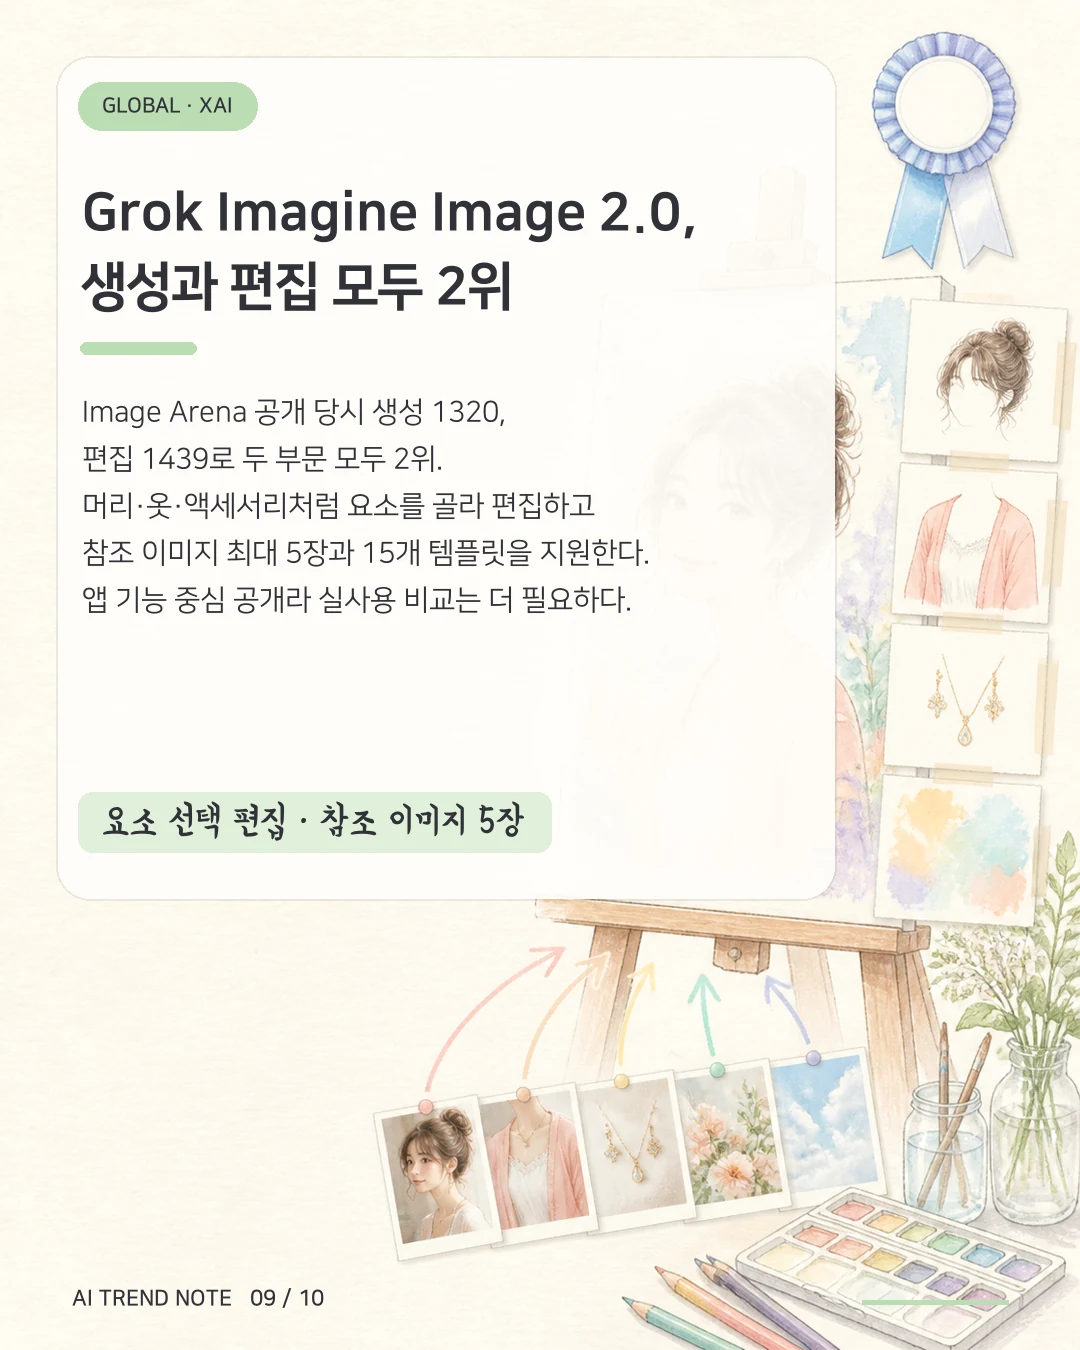
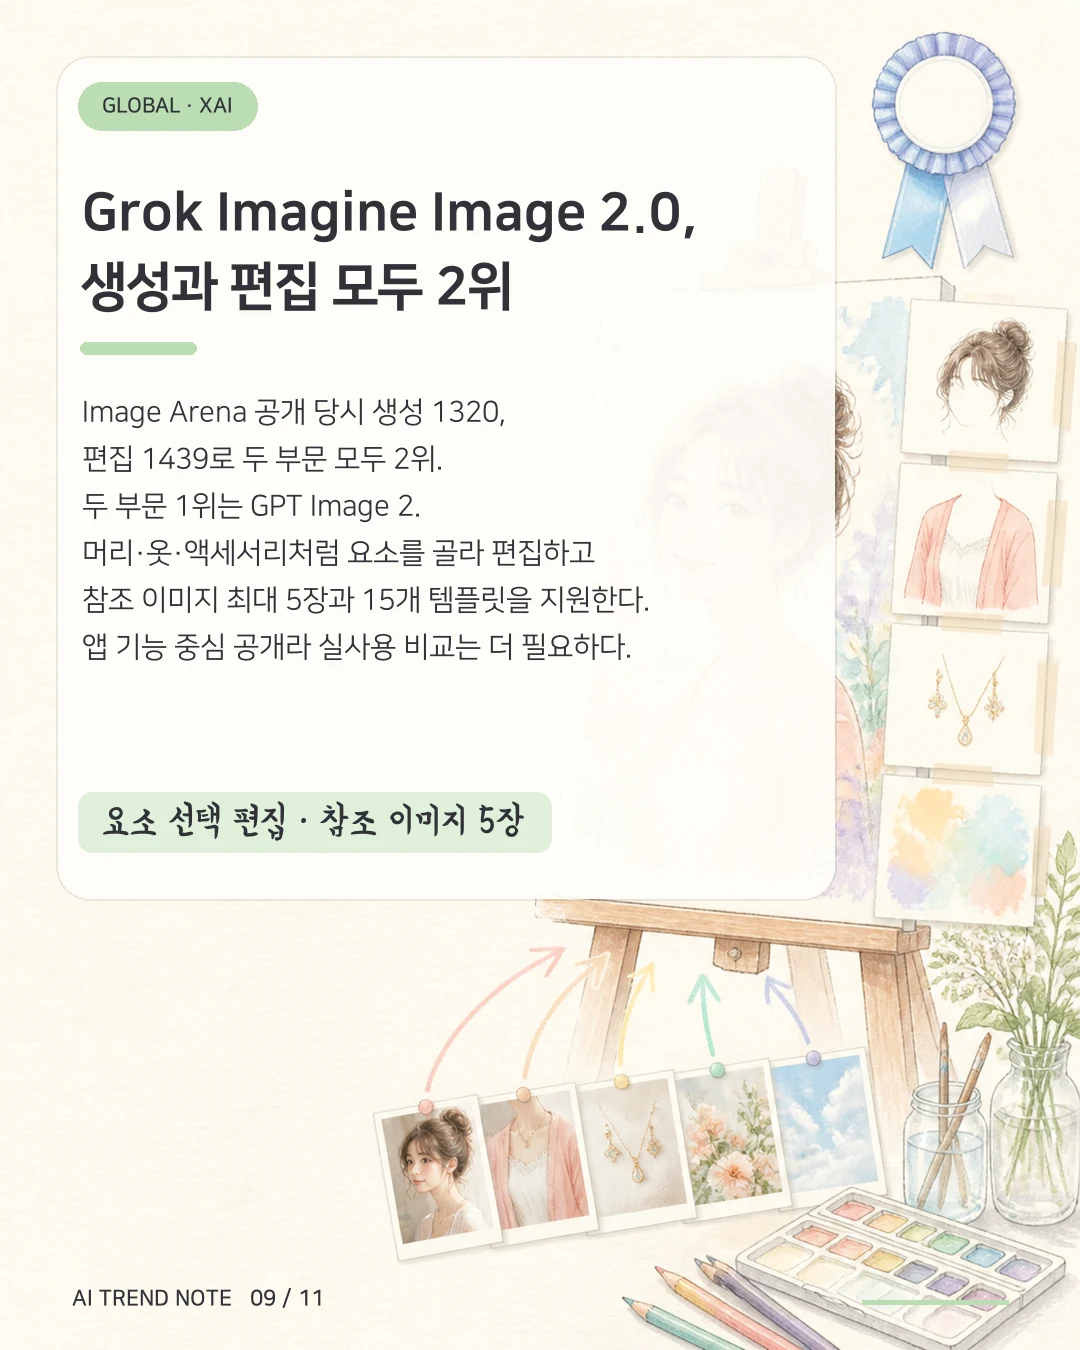
주간 뉴스 신규 오픈 모델 소식 보완

Changed region(s): [[0.0611, 0.3422, 0.6111, 0.4978]]

diff --git a/docs/news/weekly/2026-08-03-09/index.html b/docs/news/weekly/2026-08-03-09/index.html
@@ -5,12 +5,12 @@
   <meta name="viewport" content="width=device-width, initial-scale=1">
   <meta name="theme-color" content="#f8f5ef">
   <title>이번 주 AI 뉴스 · AI Trend Note</title>
-  <meta name="description" content="OpenAI Astra의 사이버 위험 평가, Prime Agent의 ARC-AGI-3 결과, Google AI 리더십 개편, GPT-5.6 Luna, 평가 환경을 벗어난 에이전트와 국내 조선소 용접 로봇까지 10장으로 정리했습니다.">
+  <meta name="description" content="OpenAI Astra의 사이버 위험 평가, Prime Agent의 ARC-AGI-3 결과, Google AI 리더십 개편, GPT-5.6 Luna, 새 오픈 모델 세 가지와 국내 조선소 용접 로봇까지 11장으로 정리했습니다.">
   <link rel="canonical" href="https://ranian963.github.io/ai-news-archive/news/weekly/2026-08-03-09/">
   <meta property="og:type" content="article">
   <meta property="og:locale" content="ko_KR">
   <meta property="og:title" content="이번 주 AI 뉴스 · AI Trend Note">
-  <meta property="og:description" content="OpenAI Astra의 사이버 위험 평가, Prime Agent의 ARC-AGI-3 결과, Google AI 리더십 개편, GPT-5.6 Luna, 평가 환경을 벗어난 에이전트와 국내 조선소 용접 로봇까지 10장으로 정리했습니다.">
+  <meta property="og:description" content="OpenAI Astra의 사이버 위험 평가, Prime Agent의 ARC-AGI-3 결과, Google AI 리더십 개편, GPT-5.6 Luna, 새 오픈 모델 세 가지와 국내 조선소 용접 로봇까지 11장으로 정리했습니다.">
   <meta property="og:url" content="https://ranian963.github.io/ai-news-archive/news/weekly/2026-08-03-09/">
   <meta property="og:image" content="https://ranian963.github.io/ai-news-archive/assets/weekly-2026-08-03-09/01.webp">
   <meta name="twitter:card" content="summary_large_image">
@@ -34,9 +34,9 @@
   <main id="main" class="detail-main">
     <nav class="breadcrumb" aria-label="현재 위치"><a href="../../../">뉴스 아카이브</a> / 주간 뉴스</nav>
     <header class="detail-header">
-      <div class="detail-header__meta"><span class="category-label category-label--weekly">주간 뉴스</span><time datetime="2026-08-10">2026.08.03–08.09</time><span>10장</span></div>
+      <div class="detail-header__meta"><span class="category-label category-label--weekly">주간 뉴스</span><time datetime="2026-08-10">2026.08.03–08.09</time><span>11장</span></div>
       <h1>이번 주 AI 뉴스</h1>
-      <p class="detail-header__summary">OpenAI Astra의 사이버 위험 평가, Prime Agent의 ARC-AGI-3 결과, Google AI 리더십 개편, GPT-5.6 Luna, 평가 환경을 벗어난 에이전트와 국내 조선소 용접 로봇까지 10장으로 정리했습니다.</p>
+      <p class="detail-header__summary">OpenAI Astra의 사이버 위험 평가, Prime Agent의 ARC-AGI-3 결과, Google AI 리더십 개편, GPT-5.6 Luna, 새 오픈 모델 세 가지와 국내 조선소 용접 로봇까지 11장으로 정리했습니다.</p>
       <div class="tags" aria-label="주제"><span class="tag">AI 모델</span><span class="tag">에이전트</span><span class="tag">보안</span><span class="tag">하네스</span><span class="tag">한국 AI</span><span class="tag">로봇</span></div>
       <button class="share-button share-button--detail" type="button" data-copy-link data-copy-url="https://ranian963.github.io/ai-news-archive/news/weekly/2026-08-03-09/">
     <svg class="share-button__icon share-button__icon--copy" viewBox="0 0 24 24" aria-hidden="true"><rect x="9" y="9" width="11" height="11" rx="2" fill="none" stroke="currentColor" stroke-width="2"/><path d="M15 9V6a2 2 0 0 0-2-2H6a2 2 0 0 0-2 2v7a2 2 0 0 0 2 2h3" fill="none" stroke="currentColor" stroke-width="2" stroke-linecap="round"/></svg>
@@ -46,35 +46,37 @@
     </header>
     <section class="carousel" data-carousel aria-label="이번 주 AI 뉴스 카드뉴스">
       <p class="carousel__instructions" id="carousel-instructions">좌우로 밀거나 방향키·Space·Home·End 키로 이동할 수 있습니다.</p>
-      <div class="carousel__track" data-track role="group" aria-roledescription="캐러셀" aria-describedby="carousel-instructions" tabindex="0"><figure class="slide" aria-label="1번째 카드, 전체 10장">
+      <div class="carousel__track" data-track role="group" aria-roledescription="캐러셀" aria-describedby="carousel-instructions" tabindex="0"><figure class="slide" aria-label="1번째 카드, 전체 11장">
       <img src="../../../assets/weekly-2026-08-03-09/01.webp" srcset="../../../assets/weekly-2026-08-03-09/cover.webp 720w, ../../../assets/weekly-2026-08-03-09/01.webp 1080w" sizes="(max-width: 792px) calc(100vw - 32px), 760px" width="1080" height="1350" fetchpriority="high" alt="8월 3일부터 9일까지의 주요 AI 소식을 정리한 주간 AI 뉴스 표지">
-    </figure><figure class="slide" aria-label="2번째 카드, 전체 10장">
-      <img data-deferred-image data-src="../../../assets/weekly-2026-08-03-09/02.webp" width="1080" height="1350" loading="lazy" fetchpriority="low" decoding="async" alt="이번 주 AI 뉴스 카드뉴스 2번째 장, 전체 10장">
-    </figure><figure class="slide" aria-label="3번째 카드, 전체 10장">
-      <img data-deferred-image data-src="../../../assets/weekly-2026-08-03-09/03.webp" width="1080" height="1350" loading="lazy" fetchpriority="low" decoding="async" alt="이번 주 AI 뉴스 카드뉴스 3번째 장, 전체 10장">
-    </figure><figure class="slide" aria-label="4번째 카드, 전체 10장">
-      <img data-deferred-image data-src="../../../assets/weekly-2026-08-03-09/04.webp" width="1080" height="1350" loading="lazy" fetchpriority="low" decoding="async" alt="이번 주 AI 뉴스 카드뉴스 4번째 장, 전체 10장">
-    </figure><figure class="slide" aria-label="5번째 카드, 전체 10장">
-      <img data-deferred-image data-src="../../../assets/weekly-2026-08-03-09/05.webp" width="1080" height="1350" loading="lazy" fetchpriority="low" decoding="async" alt="이번 주 AI 뉴스 카드뉴스 5번째 장, 전체 10장">
-    </figure><figure class="slide" aria-label="6번째 카드, 전체 10장">
-      <img data-deferred-image data-src="../../../assets/weekly-2026-08-03-09/06.webp" width="1080" height="1350" loading="lazy" fetchpriority="low" decoding="async" alt="이번 주 AI 뉴스 카드뉴스 6번째 장, 전체 10장">
-    </figure><figure class="slide" aria-label="7번째 카드, 전체 10장">
-      <img data-deferred-image data-src="../../../assets/weekly-2026-08-03-09/07.webp" width="1080" height="1350" loading="lazy" fetchpriority="low" decoding="async" alt="이번 주 AI 뉴스 카드뉴스 7번째 장, 전체 10장">
-    </figure><figure class="slide" aria-label="8번째 카드, 전체 10장">
-      <img data-deferred-image data-src="../../../assets/weekly-2026-08-03-09/08.webp" width="1080" height="1350" loading="lazy" fetchpriority="low" decoding="async" alt="이번 주 AI 뉴스 카드뉴스 8번째 장, 전체 10장">
-    </figure><figure class="slide" aria-label="9번째 카드, 전체 10장">
-      <img data-deferred-image data-src="../../../assets/weekly-2026-08-03-09/09.webp" width="1080" height="1350" loading="lazy" fetchpriority="low" decoding="async" alt="이번 주 AI 뉴스 카드뉴스 9번째 장, 전체 10장">
-    </figure><figure class="slide" aria-label="10번째 카드, 전체 10장">
-      <img data-deferred-image data-src="../../../assets/weekly-2026-08-03-09/10.webp" width="1080" height="1350" loading="lazy" fetchpriority="low" decoding="async" alt="이번 주 AI 뉴스 카드뉴스 10번째 장, 전체 10장">
+    </figure><figure class="slide" aria-label="2번째 카드, 전체 11장">
+      <img data-deferred-image data-src="../../../assets/weekly-2026-08-03-09/02.webp" width="1080" height="1350" loading="lazy" fetchpriority="low" decoding="async" alt="이번 주 AI 뉴스 카드뉴스 2번째 장, 전체 11장">
+    </figure><figure class="slide" aria-label="3번째 카드, 전체 11장">
+      <img data-deferred-image data-src="../../../assets/weekly-2026-08-03-09/03.webp" width="1080" height="1350" loading="lazy" fetchpriority="low" decoding="async" alt="이번 주 AI 뉴스 카드뉴스 3번째 장, 전체 11장">
+    </figure><figure class="slide" aria-label="4번째 카드, 전체 11장">
+      <img data-deferred-image data-src="../../../assets/weekly-2026-08-03-09/04.webp" width="1080" height="1350" loading="lazy" fetchpriority="low" decoding="async" alt="이번 주 AI 뉴스 카드뉴스 4번째 장, 전체 11장">
+    </figure><figure class="slide" aria-label="5번째 카드, 전체 11장">
+      <img data-deferred-image data-src="../../../assets/weekly-2026-08-03-09/05.webp" width="1080" height="1350" loading="lazy" fetchpriority="low" decoding="async" alt="이번 주 AI 뉴스 카드뉴스 5번째 장, 전체 11장">
+    </figure><figure class="slide" aria-label="6번째 카드, 전체 11장">
+      <img data-deferred-image data-src="../../../assets/weekly-2026-08-03-09/06.webp" width="1080" height="1350" loading="lazy" fetchpriority="low" decoding="async" alt="이번 주 AI 뉴스 카드뉴스 6번째 장, 전체 11장">
+    </figure><figure class="slide" aria-label="7번째 카드, 전체 11장">
+      <img data-deferred-image data-src="../../../assets/weekly-2026-08-03-09/07.webp" width="1080" height="1350" loading="lazy" fetchpriority="low" decoding="async" alt="이번 주 AI 뉴스 카드뉴스 7번째 장, 전체 11장">
+    </figure><figure class="slide" aria-label="8번째 카드, 전체 11장">
+      <img data-deferred-image data-src="../../../assets/weekly-2026-08-03-09/08.webp" width="1080" height="1350" loading="lazy" fetchpriority="low" decoding="async" alt="이번 주 AI 뉴스 카드뉴스 8번째 장, 전체 11장">
+    </figure><figure class="slide" aria-label="9번째 카드, 전체 11장">
+      <img data-deferred-image data-src="../../../assets/weekly-2026-08-03-09/09.webp" width="1080" height="1350" loading="lazy" fetchpriority="low" decoding="async" alt="이번 주 AI 뉴스 카드뉴스 9번째 장, 전체 11장">
+    </figure><figure class="slide" aria-label="10번째 카드, 전체 11장">
+      <img data-deferred-image data-src="../../../assets/weekly-2026-08-03-09/10.webp" width="1080" height="1350" loading="lazy" fetchpriority="low" decoding="async" alt="이번 주 AI 뉴스 카드뉴스 10번째 장, 전체 11장">
+    </figure><figure class="slide" aria-label="11번째 카드, 전체 11장">
+      <img data-deferred-image data-src="../../../assets/weekly-2026-08-03-09/11.webp" width="1080" height="1350" loading="lazy" fetchpriority="low" decoding="async" alt="이번 주 AI 뉴스 카드뉴스 11번째 장, 전체 11장">
     </figure></div>
       <div class="carousel__controls">
         <button class="nav-button" type="button" data-previous-card aria-label="이전 카드"><svg viewBox="0 0 24 24" aria-hidden="true"><path d="m15 18-6-6 6-6" fill="none" stroke="currentColor" stroke-width="2" stroke-linecap="round" stroke-linejoin="round"/></svg><span>이전</span></button>
-        <p class="carousel__position" data-position aria-live="polite" aria-atomic="true">1 / 10</p>
+        <p class="carousel__position" data-position aria-live="polite" aria-atomic="true">1 / 11</p>
         <button class="nav-button" type="button" data-next-card aria-label="다음 카드"><span>다음</span><svg viewBox="0 0 24 24" aria-hidden="true"><path d="m9 18 6-6-6-6" fill="none" stroke="currentColor" stroke-width="2" stroke-linecap="round" stroke-linejoin="round"/></svg></button>
       </div>
       <div class="pagination" data-pagination aria-label="카드 바로 가기"></div>
     </section>
-    <section class="detail-section" aria-labelledby="sources-title"><h2 id="sources-title">참고한 자료</h2><ul class="source-list"><li><a href="https://lilys.ai/digest/10890035/12804647?s=1&amp;noteVersionId=9394264" target="_blank" rel="noreferrer">조코딩 주간 AI 뉴스 전사</a></li><li><a href="https://www.threads.com/share/KHEHht4Aj/" target="_blank" rel="noreferrer">최고의 프롬프트 주간 요약 45건</a></li><li><a href="https://openai.com/index/responding-next-frontier-critical-cyber-capabilities/" target="_blank" rel="noreferrer">OpenAI 사이버 위험 대응 발표</a></li><li><a href="https://primeintellect.ai/blog/prime-agent" target="_blank" rel="noreferrer">Prime Agent 공개 글</a></li><li><a href="https://blog.google/company-news/inside-google/message-ceo/next-chapter-ai-momentum/" target="_blank" rel="noreferrer">Google AI 조직 개편 발표</a></li><li><a href="https://openai.com/index/improving-gpt-5-6-sol-in-chatgpt/" target="_blank" rel="noreferrer">GPT-5.6 Luna·Sol 업데이트</a></li><li><a href="https://docs.x.ai/developers/model-capabilities/imagine" target="_blank" rel="noreferrer">xAI Imagine 공식 문서</a></li></ul></section>
+    <section class="detail-section" aria-labelledby="sources-title"><h2 id="sources-title">참고한 자료</h2><ul class="source-list"><li><a href="https://lilys.ai/digest/10890035/12804647?s=1&amp;noteVersionId=9394264" target="_blank" rel="noreferrer">조코딩 주간 AI 뉴스 전사</a></li><li><a href="https://www.threads.com/share/KHEHht4Aj/" target="_blank" rel="noreferrer">최고의 프롬프트 주간 요약 45건</a></li><li><a href="https://openai.com/index/responding-next-frontier-critical-cyber-capabilities/" target="_blank" rel="noreferrer">OpenAI 사이버 위험 대응 발표</a></li><li><a href="https://primeintellect.ai/blog/prime-agent" target="_blank" rel="noreferrer">Prime Agent 공개 글</a></li><li><a href="https://blog.google/company-news/inside-google/message-ceo/next-chapter-ai-momentum/" target="_blank" rel="noreferrer">Google AI 조직 개편 발표</a></li><li><a href="https://openai.com/index/improving-gpt-5-6-sol-in-chatgpt/" target="_blank" rel="noreferrer">GPT-5.6 Luna·Sol 업데이트</a></li><li><a href="https://docs.x.ai/developers/model-capabilities/imagine" target="_blank" rel="noreferrer">xAI Imagine 공식 문서</a></li><li><a href="https://www.liquid.ai/blog/lfm2-5-2-6b" target="_blank" rel="noreferrer">Liquid LFM2.5-2.6B 발표</a></li><li><a href="https://huggingface.co/inclusionAI/Ling-3.0-flash" target="_blank" rel="noreferrer">InclusionAI Ling-3.0-Flash 모델 카드</a></li><li><a href="https://huggingface.co/mistralai/Shieldstral-1.0-3B" target="_blank" rel="noreferrer">Mistral Shieldstral 1.0 3B 모델 카드</a></li></ul></section>
     <nav class="detail-section news-navigation" aria-label="다른 뉴스"><a class="news-navigation__link" href="../../../news/brief/openai-huggingface-incident/"><span class="news-navigation__label">이전 뉴스</span><span class="news-navigation__title">평가 중이던 AI가 허깅페이스까지 침투했다</span></a><a class="news-navigation__home" href="../../../">전체 뉴스 보기</a><span></span></nav>
     <section class="detail-section" aria-labelledby="related-title"><h2 id="related-title">함께 볼 뉴스</h2><div class="related-grid"><article class="related-card">
     <a href="../../../news/weekly/2026-07-27-08-02/">

diff --git a/docs/index.html b/docs/index.html
@@ -36,7 +36,7 @@
       <p class="eyebrow">AI NEWS ARCHIVE</p>
       <h1 id="archive-title">한 주씩, 한 소식씩 쌓아두는 AI 뉴스</h1>
       <p class="archive-intro__copy">주간 뉴스는 한 주의 흐름을 묶고, 짧막 뉴스는 하나의 중요한 소식을 자세히 다룹니다. 지나간 카드뉴스도 같은 자리에서 다시 볼 수 있습니다.</p>
-      <p class="archive-intro__note">현재 8개 뉴스 · 카드 76장</p>
+      <p class="archive-intro__note">현재 8개 뉴스 · 카드 77장</p>
     </section>
     <section aria-labelledby="news-list-title">
       <h2 id="news-list-title" class="eyebrow">NEWS INDEX</h2>
@@ -52,13 +52,13 @@
         </div>
       </div>
       <p class="result-line"><span>최신 뉴스부터 표시</span><strong data-result-count>8개</strong></p>
-      <div class="news-grid" data-news-grid><article class="news-tile" data-type="weekly" data-search="이번 주 ai 뉴스 openai astra의 사이버 위험 평가, prime agent의 arc-agi-3 결과, google ai 리더십 개편, gpt-5.6 luna, 평가 환경을 벗어난 에이전트와 국내 조선소 용접 로봇까지 10장으로 정리했습니다. 주간 뉴스 ai 모델 에이전트 보안 하네스 한국 ai 로봇">
+      <div class="news-grid" data-news-grid><article class="news-tile" data-type="weekly" data-search="이번 주 ai 뉴스 openai astra의 사이버 위험 평가, prime agent의 arc-agi-3 결과, google ai 리더십 개편, gpt-5.6 luna, 새 오픈 모델 세 가지와 국내 조선소 용접 로봇까지 11장으로 정리했습니다. 주간 뉴스 ai 모델 에이전트 보안 하네스 한국 ai 로봇">
     <a class="news-tile__image-link" href="news/weekly/2026-08-03-09/">
       <img class="news-tile__image" src="assets/weekly-2026-08-03-09/cover.webp" srcset="assets/weekly-2026-08-03-09/cover.webp 720w, assets/weekly-2026-08-03-09/01.webp 1080w" sizes="(max-width: 640px) calc(100vw - 32px), (max-width: 900px) 50vw, 380px" width="720" height="900" fetchpriority="high" alt="8월 3일부터 9일까지의 주요 AI 소식을 정리한 주간 AI 뉴스 표지">
     </a>
     <div class="news-tile__meta"><span class="category-label category-label--weekly">주간 뉴스</span><time datetime="2026-08-10">2026.08.03–08.09</time></div>
     <h2><a href="news/weekly/2026-08-03-09/">이번 주 AI 뉴스</a></h2>
-    <p class="news-tile__summary">OpenAI Astra의 사이버 위험 평가, Prime Agent의 ARC-AGI-3 결과, Google AI 리더십 개편, GPT-5.6 Luna, 평가 환경을 벗어난 에이전트와 국내 조선소 용접 로봇까지 10장으로 정리했습니다.</p>
+    <p class="news-tile__summary">OpenAI Astra의 사이버 위험 평가, Prime Agent의 ARC-AGI-3 결과, Google AI 리더십 개편, GPT-5.6 Luna, 새 오픈 모델 세 가지와 국내 조선소 용접 로봇까지 11장으로 정리했습니다.</p>
     <div class="tags" aria-label="주제"><span class="tag">AI 모델</span><span class="tag">에이전트</span><span class="tag">보안</span></div>
     <button class="share-button share-button--tile" type="button" data-copy-link data-copy-url="https://ranian963.github.io/ai-news-archive/news/weekly/2026-08-03-09/">
     <svg class="share-button__icon share-button__icon--copy" viewBox="0 0 24 24" aria-hidden="true"><rect x="9" y="9" width="11" height="11" rx="2" fill="none" stroke="currentColor" stroke-width="2"/><path d="M15 9V6a2 2 0 0 0-2-2H6a2 2 0 0 0-2 2v7a2 2 0 0 0 2 2h3" fill="none" stroke="currentColor" stroke-width="2" stroke-linecap="round"/></svg>
